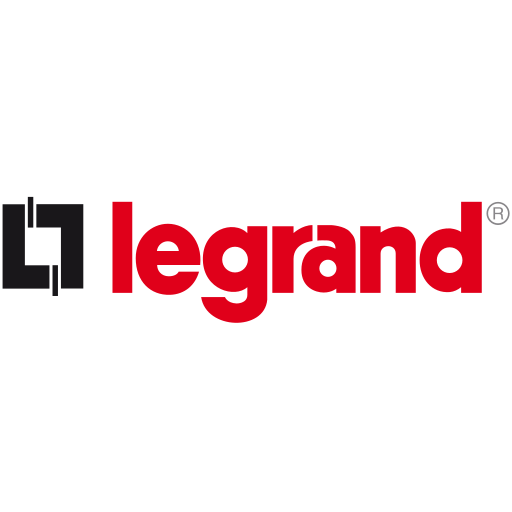
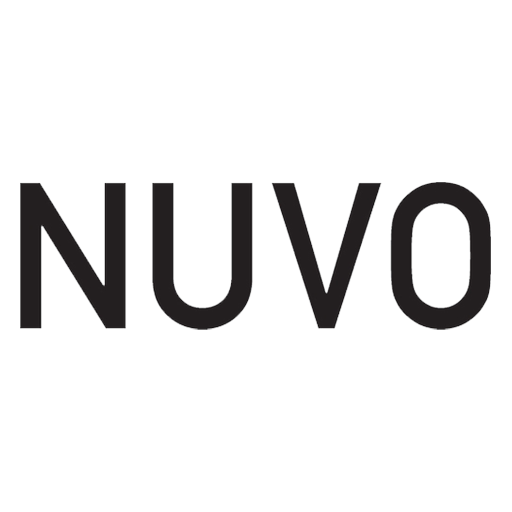
Use the Nuvo wordmark for the brand images
Replaces the Legrand set. Source: RTI's Nuvo driver logo, trimmed and
sized to HA's brand specs (icon 256/512 square, logo 128 high), with a
light variant for dark mode.

Changed region(s): [[0.0, 0.3438, 1.0, 0.6562]]

diff --git a/README.md b/README.md
@@ -51,7 +51,7 @@ is rediscovered by UDN, re-subscribed, and the command retried.
 Install with HACS (custom repository, category Integration) or copy
 `custom_components/nuvo_player/` into your HA `config/custom_components/`.
 Restart HA; the amp is discovered automatically (SSDP/zeroconf), or add
-**Nuvo Player Portfolio** manually. The integration's logo (Legrand's, from
+**Nuvo Player Portfolio** manually. The integration's logo (Nuvo's, in
 `brand/`) shows on HA 2026.3 or later. Nothing else to install: no add-on or
 container, and the library ships inside the integration.
 
